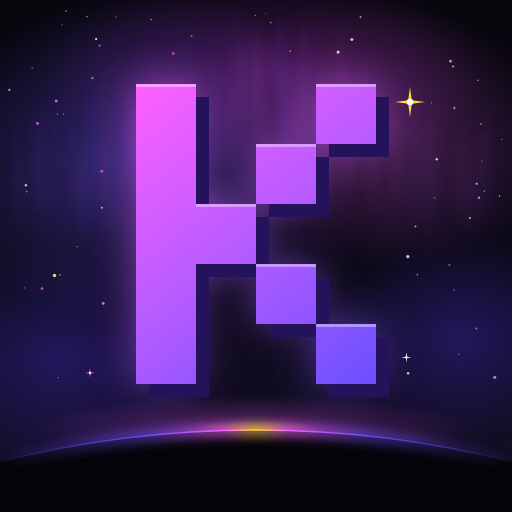
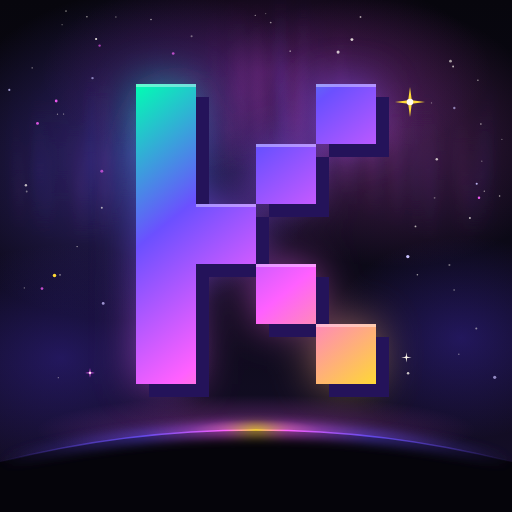
docs: the brand art's wordmark fades green, purple, hot pink, gold
The banner, social card, avatar, sign-off and tab icon take the TUI's
new fade: the KLASH letters run from green through Crush's purple and
hot pink to gold, over the same purple and pink nebula.

Changed region(s): [[0.2188, 0.125, 0.75, 0.5938], [0.4688, 0.5, 0.75, 0.7812], [0.25, 0.5938, 0.4062, 0.75]]

diff --git a/docs/brand/og.html b/docs/brand/og.html
@@ -9,7 +9,7 @@ html,body{width:1280px;height:640px;overflow:hidden;background:#07060D}
 .bg{position:absolute;inset:0}
 .wrap{position:absolute;inset:0;display:flex;flex-direction:column;align-items:center}
 .tag{margin-top:356px;font:600 37px/1.2 Inter,system-ui,sans-serif;letter-spacing:-.012em;color:#ECEBF0}
-.tag b{font-weight:600;background:linear-gradient(90deg,#FF60FF,#B65CFF 55%,#6B50FF);-webkit-background-clip:text;background-clip:text;color:transparent}
+.tag b{font-weight:600;background:linear-gradient(90deg,#00FFB2,#6B50FF 35%,#FF60FF 70%,#FED835);-webkit-background-clip:text;background-clip:text;color:transparent}
 .pts{margin-top:26px;display:flex;gap:14px;font:500 19px/1 'JetBrains Mono',monospace;color:#D6D3DC}
 .pts span{display:flex;align-items:center;gap:10px;padding:11px 16px;border:1px solid #2D2C36;border-radius:999px;background:rgba(13,10,26,.72)}
 .pts i{width:9px;height:9px;border-radius:2px;display:block}
@@ -28,7 +28,7 @@ html,body{width:1280px;height:640px;overflow:hidden;background:#07060D}
 <linearGradient id="rim" gradientUnits="userSpaceOnUse" x1="0" y1="0" x2="1280" y2="0"><stop offset="0" stop-color="#6B50FF" stop-opacity="0"/><stop offset=".28" stop-color="#6B50FF" stop-opacity=".8"/><stop offset=".44" stop-color="#FF60FF"/><stop offset=".5" stop-color="#FED835"/><stop offset=".56" stop-color="#FF60FF"/><stop offset=".72" stop-color="#6B50FF" stop-opacity=".8"/><stop offset="1" stop-color="#6B50FF" stop-opacity="0"/></linearGradient>
 <filter id="soft" x="-10%" y="-300%" width="120%" height="700%"><feGaussianBlur stdDeviation="6"/></filter>
 <filter id="hblur" x="-20%" y="-5%" width="140%" height="110%"><feGaussianBlur stdDeviation="5 0"/></filter>
-<linearGradient id="word" gradientUnits="userSpaceOnUse" x1="248" y1="148" x2="1032" y2="288"><stop offset="0" stop-color="#FF60FF"/><stop offset=".5" stop-color="#B65CFF"/><stop offset="1" stop-color="#6B50FF"/></linearGradient>
+<linearGradient id="word" gradientUnits="userSpaceOnUse" x1="248" y1="148" x2="1032" y2="288"><stop offset="0" stop-color="#00FFB2"/><stop offset="0.333" stop-color="#6B50FF"/><stop offset="0.667" stop-color="#FF60FF"/><stop offset="1" stop-color="#FED835"/></linearGradient>
 <linearGradient id="field" gradientUnits="userSpaceOnUse" x1="0" y1="0" x2="1280" y2="0"><stop offset="0" stop-color="#6B50FF" stop-opacity="0"/><stop offset=".2" stop-color="#6B50FF" stop-opacity=".55"/><stop offset=".8" stop-color="#FF60FF" stop-opacity=".55"/><stop offset="1" stop-color="#FF60FF" stop-opacity="0"/></linearGradient>
 <filter id="glow" x="-20%" y="-60%" width="140%" height="220%"><feGaussianBlur stdDeviation="16"/></filter>
 </defs>

diff --git a/scripts/brand.py b/scripts/brand.py
@@ -5,7 +5,8 @@ The wordmark is the TUI's own: the half-block letterforms in
 internal/ui/logo/letterforms.go, where each terminal cell holds two square
 pixels. Drawing the same strings here keeps the banner on GitHub and the
 logo in the terminal the same shape. The colors are the TUI's too: Crush's
-purple and hot pink, a nebula, with green and gold kept to a few stars.
+purple and hot pink, a nebula, with green and gold at the ends of every fade
+and in a few stars.
 
     python3 scripts/brand.py
 
@@ -43,13 +44,16 @@ STAR = "#FFFAF1"
 LAVENDER = "#C9C1FF"
 PURPLE = "#6B50FF"
 PINK = "#FF60FF"
-ORCHID = "#B65CFF"
 MAGENTA = "#C337E0"
 DEEP = "#4A30D9"
 DEPTH = "#24135A"
 GOLD = "#FED835"
 AMBER = "#FEA408"
 MINT = "#68FFD6"
+GREEN = "#00FFB2"
+# Every fade, as in the TUI: green, then Crush's purple and hot pink, then
+# gold. Purple and pink hold the middle; green and gold only the ends.
+NEBULA = (GREEN, PURPLE, PINK, GOLD)
 # Deeper versions of the gradient that read on a white page.
 INK_PURPLE = "#5B40EC"
 INK_MAGENTA = "#B02DCB"
@@ -257,11 +261,13 @@ def field_stars(rng, x_from, x_to, y, rows, cw, ch, every=29, colors=(GOLD, MINT
     return "".join(o)
 
 
-def word_defs(x0, y0, word_w, word_h, a=PINK, b=ORCHID, c=PURPLE, gid="word"):
+def word_defs(x0, y0, word_w, word_h, stops=NEBULA, gid="word"):
+    """The word's fade, left to right with a little slope, through stops."""
+    n = len(stops) - 1
+    marks = "".join(f'<stop offset="{i / n:.3g}" stop-color="{c}"/>' for i, c in enumerate(stops))
     return (
         f'<linearGradient id="{gid}" gradientUnits="userSpaceOnUse" x1="{fmt(x0)}" y1="{fmt(y0)}" '
-        f'x2="{fmt(x0 + word_w)}" y2="{fmt(y0 + word_h)}"><stop offset="0" stop-color="{a}"/>'
-        f'<stop offset=".5" stop-color="{b}"/><stop offset="1" stop-color="{c}"/></linearGradient>'
+        f'x2="{fmt(x0 + word_w)}" y2="{fmt(y0 + word_h)}">{marks}</linearGradient>'
     )
 
 
@@ -450,7 +456,7 @@ html,body{width:1280px;height:640px;overflow:hidden;background:$void}
 .bg{position:absolute;inset:0}
 .wrap{position:absolute;inset:0;display:flex;flex-direction:column;align-items:center}
 .tag{margin-top:356px;font:600 37px/1.2 Inter,system-ui,sans-serif;letter-spacing:-.012em;color:$moon}
-.tag b{font-weight:600;background:linear-gradient(90deg,$pink,$orchid 55%,$purple);-webkit-background-clip:text;background-clip:text;color:transparent}
+.tag b{font-weight:600;background:linear-gradient(90deg,$green,$purple 35%,$pink 70%,$gold);-webkit-background-clip:text;background-clip:text;color:transparent}
 .pts{margin-top:26px;display:flex;gap:14px;font:500 19px/1 'JetBrains Mono',monospace;color:#D6D3DC}
 .pts span{display:flex;align-items:center;gap:10px;padding:11px 16px;border:1px solid $rim;border-radius:999px;background:rgba(13,10,26,.72)}
 .pts i{width:9px;height:9px;border-radius:2px;display:block}
@@ -504,7 +510,7 @@ def og_svg(W=1280, H=640, p=28):
 
 
 def og_html():
-    return OG_HTML.substitute(svg=og_svg(), void=VOID, pink=PINK, orchid=ORCHID, purple=PURPLE, gold=GOLD, moon=MOON, rim=RIM)
+    return OG_HTML.substitute(svg=og_svg(), void=VOID, green=GREEN, pink=PINK, purple=PURPLE, gold=GOLD, moon=MOON, rim=RIM)
 
 
 def main():
